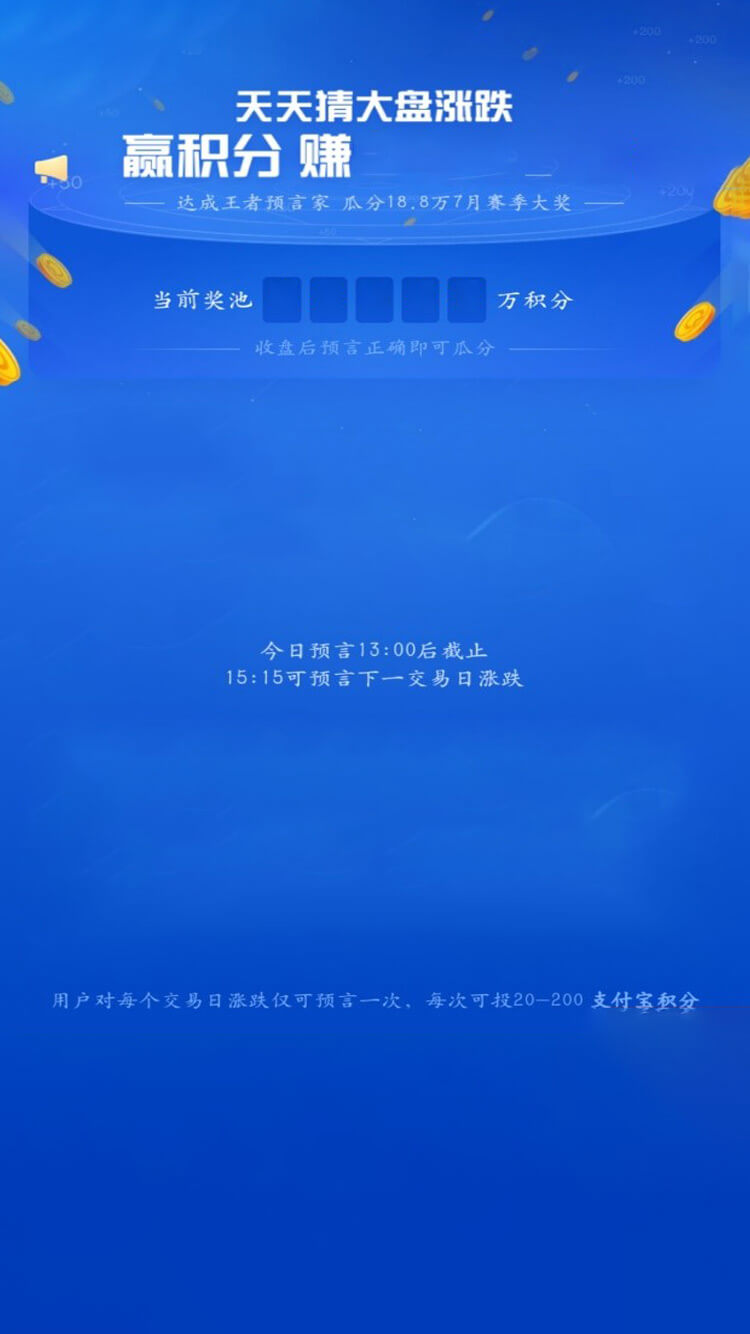
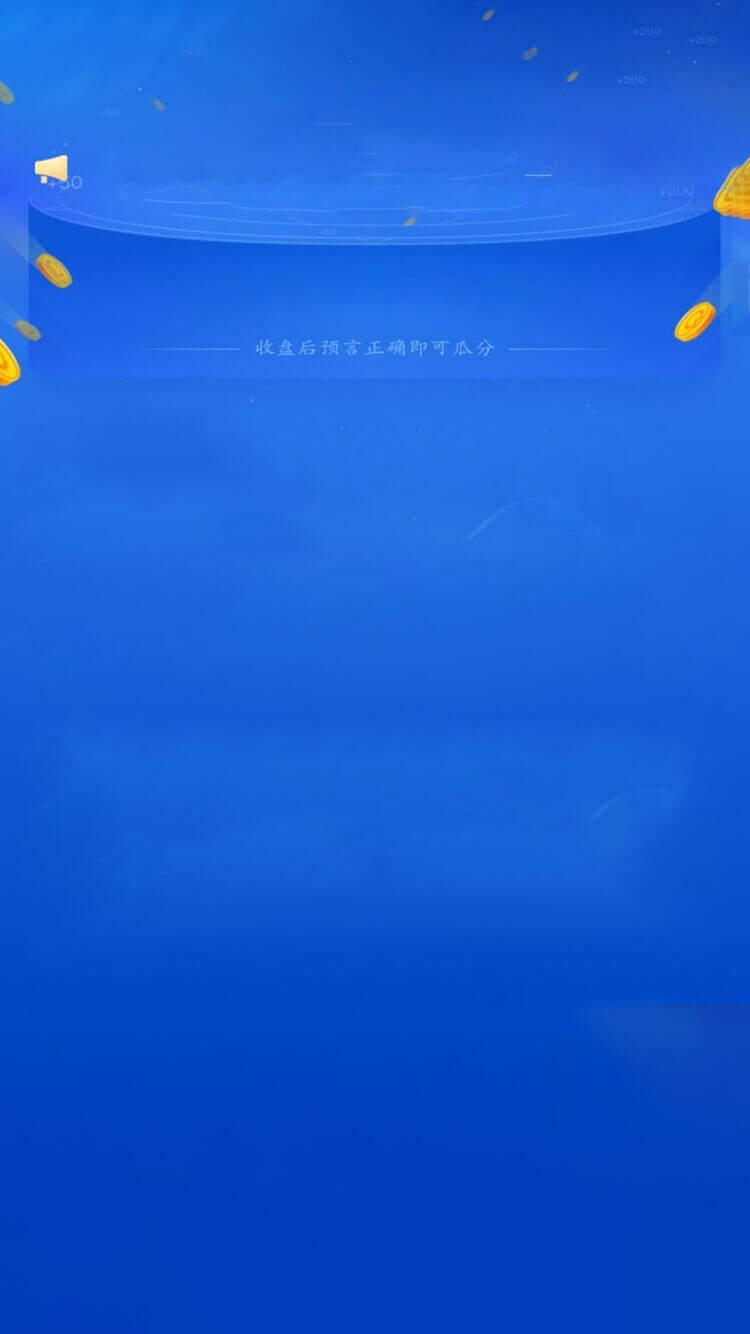
使用localstorage存储语言

diff --git a/js/index.js b/js/index.js
@@ -169,6 +169,11 @@
 
   var appGuess = {
     apiRoot: 'http://elahive.club/api/', // 接口路径
+    dataTime: '', // 接口返回的时间
+    dataMonth: '', // 接口返回的时间月份
+    dataDate: '', // 接口返回的时间日期
+    dataHour: '', // 皆苦返回的时间小时
+    dataMinute: '', // 接口返回的时间分钟
 
     initDom: function initDom() {
       // 调用实例
@@ -231,11 +236,11 @@
 
             // 大盘指数
             var dataTime = new Date(parseInt(info.id) * 1000);
-            var dataMonth = dataTime.getMonth() + 1;
-            var dataDate  = dataTime.getDate();
-            var dataHour = dataTime.getHours();
-            var dataMinute = dataTime.getMinutes();
-            $('.mark').html(dataMonth + '月' + dataDate + '日 大盘指数:<span class="mark-desc">12000  2.58%</span>');
+            _Self.dataMonth = dataTime.getMonth() + 1;
+            _Self.dataDate  = dataTime.getDate();
+            _Self.dataHour = dataTime.getHours();
+            _Self.dataMinute = dataTime.getMinutes();
+            $('.mark').html(_Self.dataMonth + '月' + _Self.dataDate + '日 大盘指数:<span class="mark-desc">12000  2.58%</span>');
 
             // 价格波动 // TODO 可以考虑数字颜色——红涨绿跌，根据incressRate的正负识别涨跌
             var incressRate = ((info.prices[1] - info.prices[0]) * 100 / info.prices[0]).toFixed(2);
@@ -253,21 +258,54 @@
             rightPercent.html(downProgressBar);
 
             // TODO cookies里需要存储竞猜选择及时间戳
-			// 根据时间及cookies识别——竞猜按钮/已竞猜/不能竞猜/竞猜结果
-            if (dataHour == 15 && dataMinute <= 30) {
+            // 根据时间及cookies识别——竞猜按钮/已竞猜/不能竞猜/竞猜结果
+
+            var prodictDOm = $('.prodict-dom'), btnsBox = $('.btns-box');
+            var prodictR = JSON.parse(window.localStorage.getItem('prodictReult'))
+
+            if (_Self.dataHour == 15 && _Self.dataMinute <= 30) {
                 // TODO 是否需要轮询接口以自动刷新？哪个接口及字段是结果？
                 // 15:00  到15:30  显示竞猜结果  判断依据是本地提交的记录,
                 //如果cookie没有值，提示当日预言已经截止，请15:30分后预言下一场
-            } else if (dataHour >= 12 && dataHour < 15) {
+
+                // 如果没有竞猜的记录则不继续下走
+                if(prodictR == null || prodictR == {} || !prodictR) {
+                  prodictDOm.find('h4').empty().text('当日预言已经截止')
+                  prodictDOm.find('p').empty().text('请15:30分后预言下一场')
+                }
+                window.localStorage.setItem('prodictReult', '{}');
+                btnsBox.hide()
+                prodictDOm.show()
+
+            } else if (_Self.dataHour >= 12 && _Self.dataHour < 15) {
                 // TODO 识别cookies里的竞猜选择并展示文案
                 // 12:00  到15:00     不能竞猜，等待下一场,
                 //cookie有值显示，你已经预言"涨", 预计15:30分出结果
                 //界面显示。当日预言已经截止，请15:30分后预言下一场
+                if(prodictR && prodictR.status == 1) {
+                  prodictDOm.find('h4').empty().html('您已预言<span class="dowm">涨</span>')
+                } else {
+                  prodictDOm.find('h4').empty().html('您已预言<span class="dowm">跌</span>')
+                }
+                btnsBox.hide()
+                prodictDOm.show()
             } else {
                 // TODO 可以竞猜，需要识别cookies里的时间戳是否是本轮竞猜，是则禁止，不是则清理、允许用户竞猜、存储cookies
                 // T-1日的15：30到T日的12:00  ：
                 //先比较cookie,如果没有值可以竞猜，有值显示，你已经预言"", 预计15:30分出结果，
                 //如果没有值 界面显示 涨和跌的按钮
+                if(prodictR) {
+                  if(prodictR.status == 1) {
+                    prodictDOm.find('h4').empty().html('您已预言<span class="dowm">涨</span>')
+                  } else {
+                    prodictDOm.find('h4').empty().html('您已预言<span class="dowm">跌</span>')
+                  }
+                  btnsBox.hide()
+                  prodictDOm.show()
+                } else {
+                  btnsBox.show()
+                  prodictDOm.hide()
+                }
             }
 
           // }
@@ -285,8 +323,8 @@
     initBetUl: function initBetUl() {
       var prodictResult = $('.prodict-result'), prodictStr= '', str = '猜对预计可得<span>40积分</span>，仅供参考';
       $('.bet-ul li').on('click', function(el) {
-		//TODO 这里记得修改7月9号的那个日期，那个日期是从api接口里面返回。
-		//点击涨和跌的时候记得使用内部浏览器打开www.baid.com即可。
+      //TODO 这里记得修改7月9号的那个日期，那个日期是从api接口里面返回。
+      //点击涨和跌的时候记得使用内部浏览器打开www.baid.com即可。
         el.preventDefault();
         $(this).addClass('current').siblings('li').removeClass('current');
         var thisVal = $(this).data('value');
@@ -296,7 +334,7 @@
     },
 
     initSomeDom: function initSomeDom() {
-      var lookWrap = $('#look_wrap'), downBtn = $('.down-btn');
+      var lookWrap = $('#look_wrap'), downBtn = $('.down-btn'), prodictDOm = $('.prodict-dom');
       $('span.close').on('click', function(el) {
         el.preventDefault()
         var dialogWrap = $('.dialog-wrap')
@@ -306,15 +344,47 @@
       $('.btns-box div').on('click', function(el) {
         var $this = $(this)
         el.preventDefault()
+        if (_Self.dataHour == 15 && _Self.dataMinute <= 30) {
+          prodictDOm.find('h4').empty().text('当日预言已经截止')
+          prodictDOm.find('p').empty().text('请15:30分后预言下一场')
+          btnsBox.hide()
+          prodictDOm.show()
+        }
         // 看涨
         if($this.hasClass('up')) {
           lookWrap.find('.look').removeClass('look-down').addClass('look-up')
-          downBtn.find('h5').empty().text('我要看涨')
+          downBtn.attr('data-status', true).find('h5').empty().text('我要看涨')
         } else { // 看跌
           lookWrap.find('.look').removeClass('look-up').addClass('look-down')
-          downBtn.find('h5').empty().text('我要看跌')
+          downBtn.attr('data-status', false).find('h5').empty().text('我要看跌')
         }
         lookWrap.fadeIn(300)
+      })
+
+      downBtn.on('click', function(el) {
+        el.preventDefault();
+        var thisStatus = $(this).attr('data-status')
+        var prodictR = {}
+        $('.bet-ul li').each(function(index, item) {
+          if($(item).hasClass('current')) {
+            prodictR.value = $(item).attr('data-value')
+          }
+        })
+        
+        // 只记录当前一条记录
+        window.localStorage.setItem('prodictReult', '{}');
+        // 1表示涨， 2表示跌
+        if(thisStatus && thisStatus == 'true') {
+          prodictR.status = 1
+          prodictDOm.find('h4').empty().html('您已预言<span class="dowm">涨</span>')
+        } else {
+          prodictR.status = 2
+          prodictDOm.find('h4').empty().html('您已预言<span class="dowm">跌</span>')
+        }
+        window.localStorage.setItem('prodictReult', JSON.stringify(prodictR));
+        lookWrap.fadeOut(200)
+        $('.btns-box').fadeOut(200)
+        prodictDOm.fadeIn(300)
       })
     }
   }
